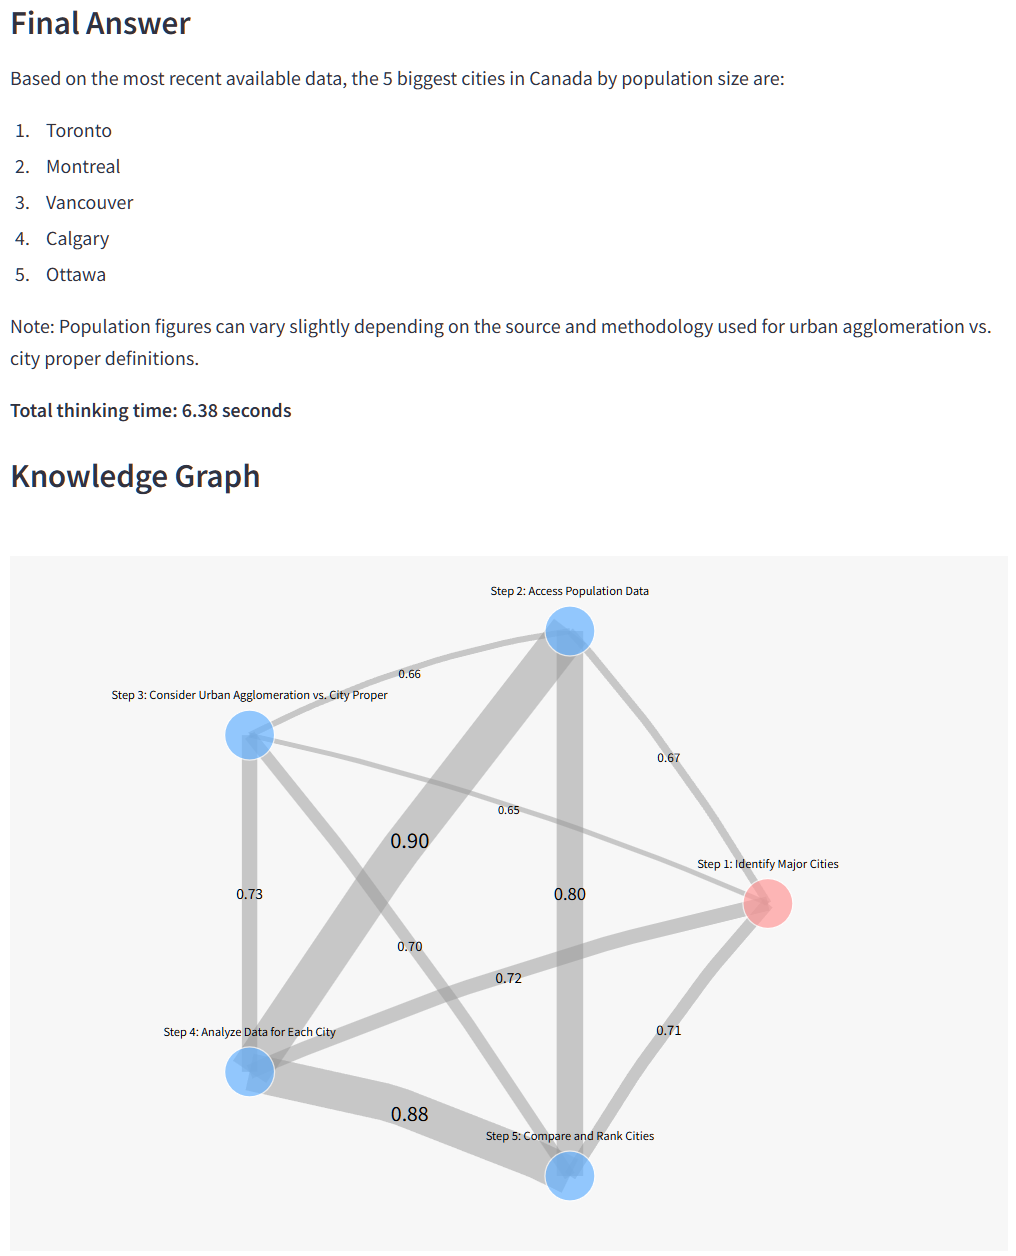
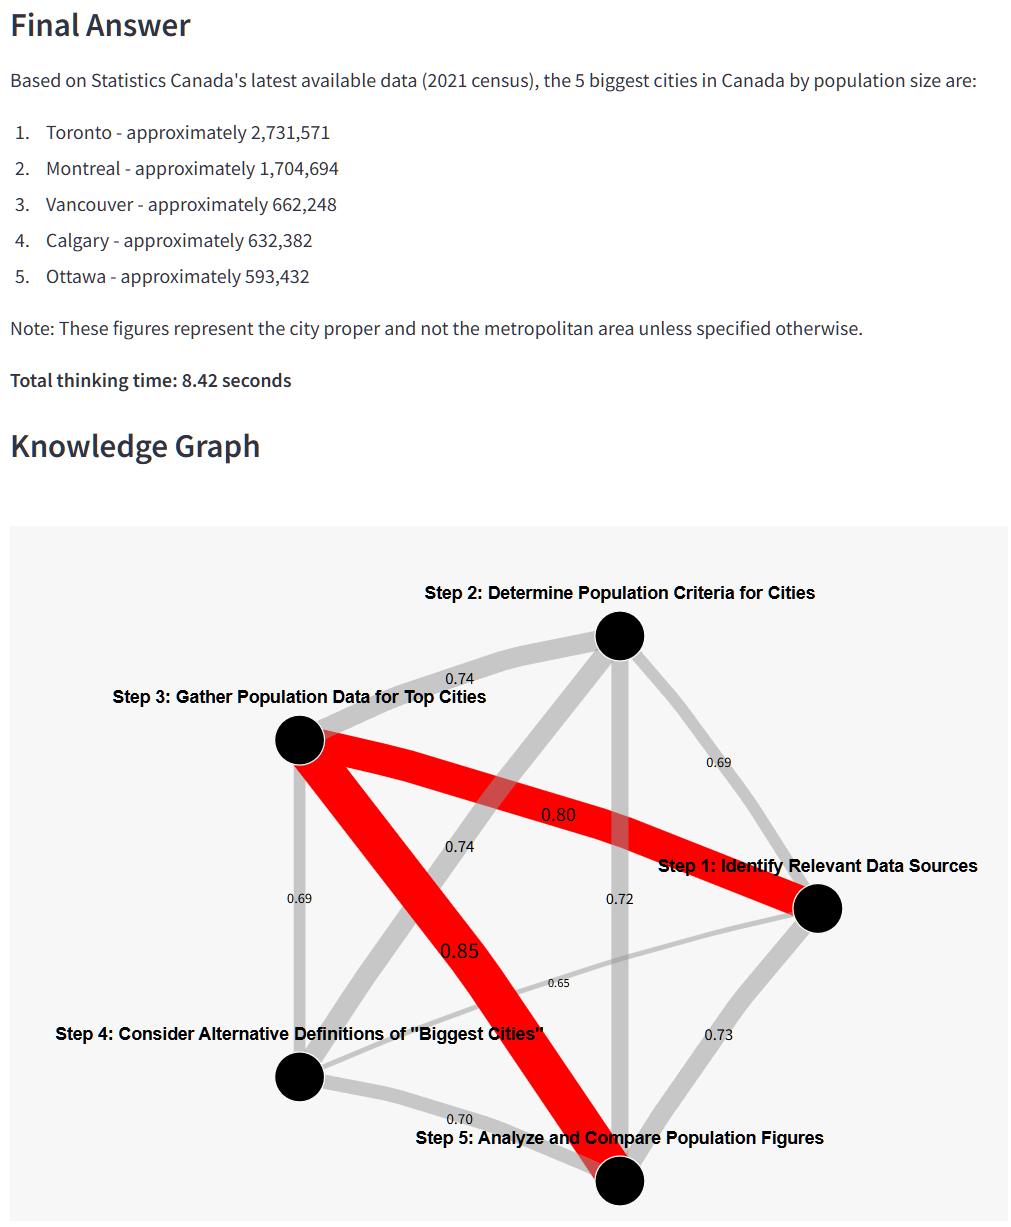
highlight strongest edges on graph

Changed region(s): [[0.0613, 0.4645, 0.9812, 0.991], [0.0, 0.031, 0.9812, 0.4026], [0.0, 0.0, 0.184, 0.031]]

diff --git a/app.py b/app.py
@@ -90,6 +90,28 @@ def get_embedding(text, model_name):
 def calculate_similarity(embedding1, embedding2):
     return cosine_similarity([embedding1], [embedding2])[0][0]
 
+def find_strongest_path(G, start, end):
+    def dfs(node, path, total_weight):
+        if node == end:
+            return path, total_weight
+        
+        best_path, best_weight = None, -float('inf')
+        for neighbor in G.neighbors(node):
+            if neighbor not in path:
+                edge_weight = G[node][neighbor]['weight']
+                new_path, new_weight = dfs(neighbor, path + [neighbor], total_weight + edge_weight)
+                if new_path and new_weight > best_weight:
+                    best_path, best_weight = new_path, new_weight
+        
+        return best_path, best_weight
+
+    strongest_path, _ = dfs(start, [start], 0)
+    if strongest_path:
+        strongest_edges = list(zip(strongest_path[:-1], strongest_path[1:]))
+        return strongest_path, strongest_edges
+    return None, None
+
+
 def generate_response(prompt, model_name, max_tokens):
     messages = [
         {"role": "system", "content": """You are an expert AI assistant that explains your reasoning step by step. Follow these guidelines:
@@ -157,13 +179,15 @@ Remember to be aware of your limitations as an AI and use best practices in your
             # Calculate strongest path
             if len(G.nodes()) > 1:
                 try:
-                    strongest_path = nx.dijkstra_path(G, "Step1", node_id, weight='weight')
-                except nx.NetworkXNoPath:
-                    strongest_path = None
+                    strongest_path, strongest_edges = find_strongest_path(G, "Step1", node_id)
+                    print(f"Strongest edges: {strongest_edges}")  # Add this line for debugging
+                except Exception as e:
+                    print(f"Error finding strongest path: {e}")
+                    strongest_path, strongest_edges = None, None
             else:
-                strongest_path = None
-            
-            yield reasoning_steps, (step_data['title'], step_data['content'], thinking_time), total_thinking_time, done_reason, G, strongest_path
+                strongest_path, strongest_edges = None, None
+
+            yield reasoning_steps, (step_data['title'], step_data['content'], thinking_time), total_thinking_time, done_reason, G, strongest_edges
             return
     
     # This line should not be reached, but just in case:
@@ -209,12 +233,12 @@ def main():
             final_answer = None
             final_done_reason = None
             final_graph = None
-            final_strongest_path = None
-            for reasoning_steps, answer, total_thinking_time, done_reason, graph, strongest_path in generate_response(user_query, selected_model, selected_tokens):
+            final_strongest_edges = None  # Changed from final_strongest_path
+            for reasoning_steps, answer, total_thinking_time, done_reason, graph, strongest_edges in generate_response(user_query, selected_model, selected_tokens):
                 final_reasoning_steps = reasoning_steps
                 final_done_reason = done_reason
                 final_graph = graph
-                final_strongest_path = strongest_path
+                final_strongest_edges = strongest_edges  # Changed from final_strongest_path
                 if answer:
                     final_answer = answer
 
@@ -237,7 +261,7 @@ def main():
         with graph_container.container():
             if final_graph:
                 st.subheader("Knowledge Graph")
-                fig = plot_graph(final_graph, final_strongest_path, layout_type=selected_layout)
+                fig = plot_graph(final_graph, final_strongest_edges, layout_type=selected_layout)
                 st.plotly_chart(fig)
 
         # Show total time

diff --git a/graph_utils.py b/graph_utils.py
@@ -9,7 +9,7 @@ def bezier_curve(start, end, num_points=20):
     y = (1-t)**2 * start[1] + 2*(1-t)*t * control[1] + t**2 * end[1]
     return x, y
 
-def plot_graph(G, strongest_path=None, layout_type='force'):
+def plot_graph(G, strongest_edges=None, layout_type='circular'):
     G = G.copy()
     final_answer_node = next((node for node, data in G.nodes(data=True) if "Final Answer" in data['label']), None)
     if final_answer_node:
@@ -51,9 +51,16 @@ def plot_graph(G, strongest_path=None, layout_type='force'):
         
         x, y = bezier_curve((x0, y0), (x1, y1))
         
+        # Check if this edge is part of the strongest path
+        is_strongest = strongest_edges and (edge[0], edge[1]) in strongest_edges
+        
         edge_trace = go.Scatter(
             x=x, y=y,
-            line=dict(width=scaled_width * 4, color='rgba(150,150,150,0.5)'),
+            line=dict(
+                width=scaled_width * 4, 
+                color='red' if is_strongest else 'rgba(150,150,150,0.5)',
+                dash='solid'  # Change this line to always use solid lines
+            ),
             hoverinfo='text',
             text=f"Weight: {weight:.2f}",
             mode='lines'
@@ -77,7 +84,7 @@ def plot_graph(G, strongest_path=None, layout_type='force'):
         edge_label_traces.append(edge_label)
 
     node_sizes = [20 + 5 * G.degree(node) for node in G.nodes()]
-    node_colors = ['#FF9999' if strongest_path and node in strongest_path else '#66B2FF' for node in G.nodes()]
+    node_colors = ['#000000' if strongest_edges and node in set(sum(strongest_edges, ())) else '#66B2FF' for node in G.nodes()]
 
     node_trace = go.Scatter(
         x=[pos[node][0] for node in G.nodes()],
@@ -87,11 +94,12 @@ def plot_graph(G, strongest_path=None, layout_type='force'):
         marker=dict(
             color=node_colors,
             size=node_sizes,
-            line=dict(width=1, color='white')
+            line=dict(width=1, color='white'),
+            opacity=1,
         ),
         text=[G.nodes[node]['label'] for node in G.nodes()],
         textposition="top center",
-        textfont=dict(size=10, color='black')
+        textfont=dict(size=14, color='black', family='Arial', weight='bold')
     )
 
     data = edge_traces + edge_label_traces + [node_trace]
